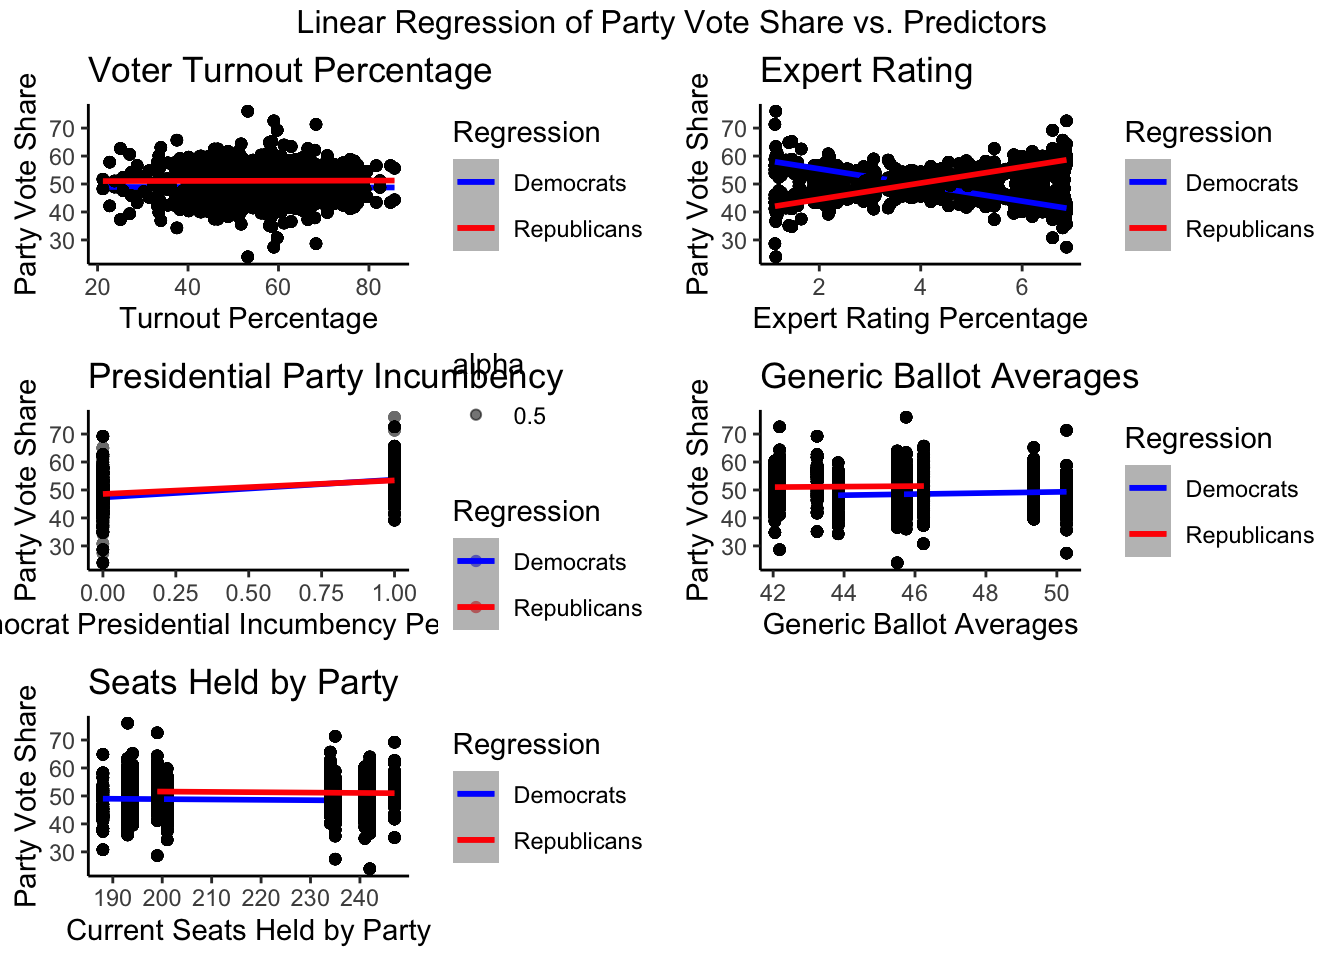
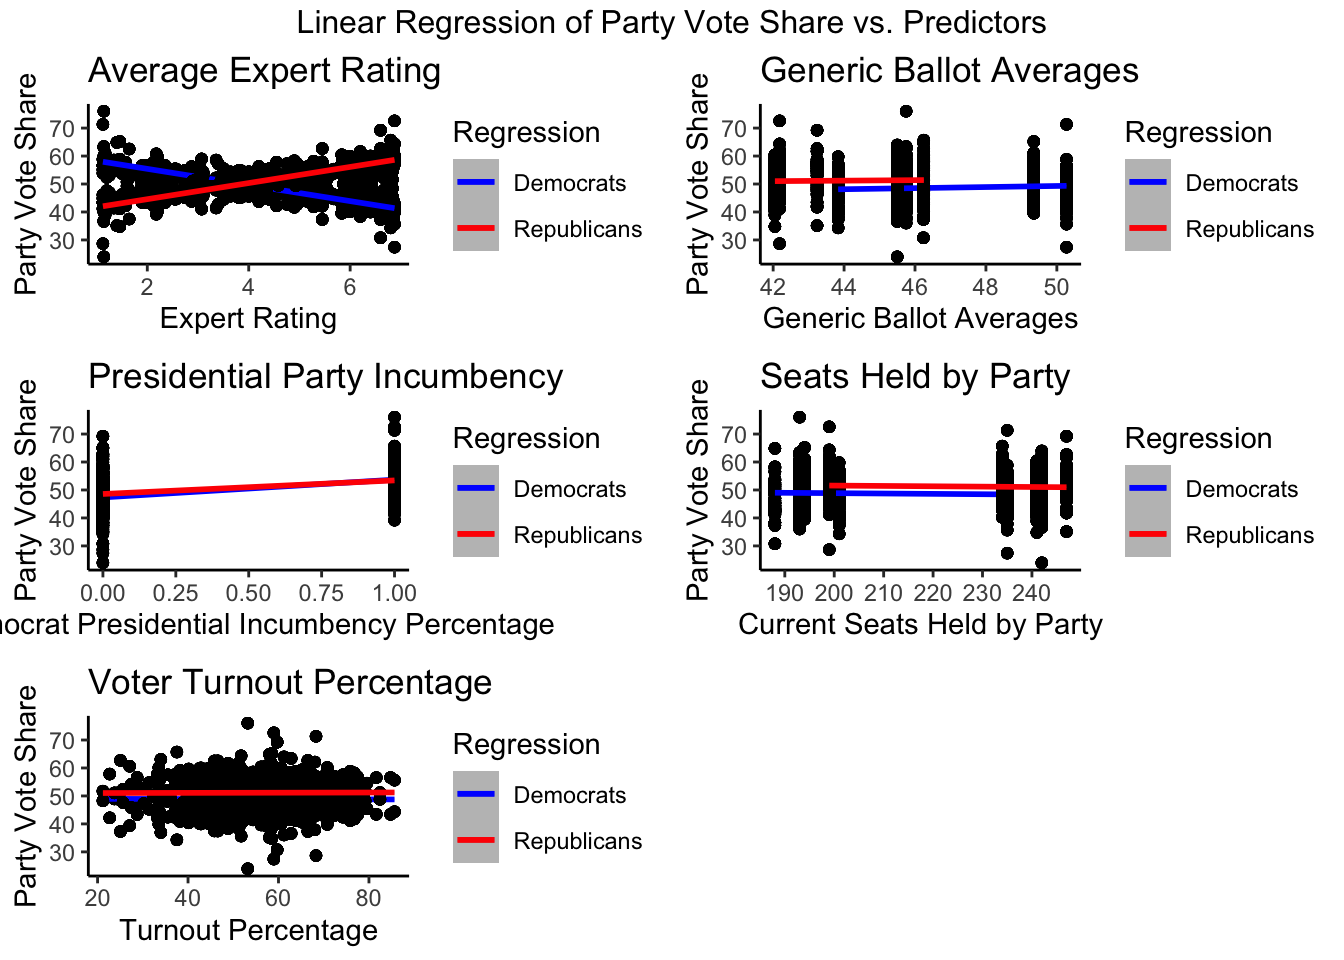
beautify

diff --git a/public/post/2022-11-07-blog-8-final-prediction/index.html b/public/post/2022-11-07-blog-8-final-prediction/index.html
@@ -84,8 +84,8 @@
 <p>All in all, holistically looking at historical literature and contemporary writings that posit the narrative of this midterm election have significantly contributed to my choice of predictors for this final model. Since I explained some of the theory behind their selection, I figured it would similarly be helpful to see the correlation of each variable on its own to party vote share. As such, I plotted each predictor against two party vote share in the graph below.</p>
 <p><strong>Examining Predictor Relationships Individually</strong>
 <img src="http://example.org/post/2022-11-07-blog-8-final-prediction/index_files/figure-html/unnamed-chunk-4-1.png" width="672" /></p>
-<p>As can be seen above</p>
-<p>#Model Results</p>
+<p>In the graph above, each predictors in my model can be seen and regressed against two party vote percentage for each party on its own. A few interesting trends and cautions can be gleaned from the above plot. Average expert rating seems to have a very clear and strong correlation likely due to the ordinal nature of the variable. As expert rating approaches 7, the republican vote share increases and as it approaches 1 democratic vote share increases. Similarly, both Republicans and Democrats see a decrease in party vote share when they hold more seats to defend in the house. Unfortunately, voter turnout does not seem to have a ver strong correlation with party vote share on its own. Finally, since presidential party incumbency status is a binary variable, the linear regression graph does not appear to display the influence very well although there does appear to be presidential party incumbency advantage (perhaps this has to do with both midterm and election years being included). All in all, these regression plots do reduce some of my confidence in the variables I’ve chosen individually but I do believe in tandem they can be very descriptive of the election.</p>
+<p><strong>Model Results</strong></p>
 <pre><code>## 
 ## ===========================================================
 ##                                     Dependent variable:    
@@ -115,24 +115,22 @@
 <li><p><strong>Democratic Seats to Defend</strong>: In my model, the democratic seats to defend variable (dem seats) has a coefficient of <strong>-0.064</strong>. This means that for every additional seat the democrats currently hold and must defend in the house, their Democrat Vote Share percentage will decrease by approximately 0.064.</p></li>
 <li><p><strong>Turnout</strong>: In my model, the turnout variable has a coefficient of <strong>-0.044</strong>. This means that for every increase in one percent of turnout the democratic vote percentage decreases by -0.044 percent. While this coefficient does seem dubious given the small positive correlation between turnout and democratic vote share, in conjunction with the rest of my model perhaps turnout is being used to adjust vote percentage along with other variables.</p></li>
 </ol>
-<div id="model-prediction" class="section level1">
-<h1>MODEL PREDICTION</h1>
+<p><strong>MODEL PREDICTION</strong></p>
 <p>Ultimately, the goal of creating the model is to then predict the outcome of tomorrow’s 2022 midterm election in the house. As discussed earlier, I aim to predict two party vote share in the house. After wrangling the data for 2022 as of 11/07, <strong>my model predicts that democrats will win approximately 46.84% of the two party vote share while Republicans will win 53.16% of the two party vote share for the house</strong>. At a 95% confidence interval, my model’s lower bound for democrat vote share percentage is approximately 41.2% while the upper bound is 52.49%. While this prediction may seem wide, it does seem on trend with the conversation going on in the election world even as of today. According to today’s New York Times article, the election seems incredibly close and could swing either way despite a significantly easier path to House dominance by the Republican party. As such, I think this model’s conclusion is fair and a likely outcome. However, to more formally analyze the validity of this model I used both in sample and out of sample metrics of evaluation.</p>
 <p>First off, looking at my model, it has an adjusted r-squared value of 0.761. While this is not a perfect r-squared, I do have confidence in the model’s ability to predict off the data fairly well. In examining my models predictive capabilities, I graphed a plot of the models predictions on the training data against the actual values of Democratic vote share. As can be seen, the model looks very accurate for midterm years like 2014 and 2018, as well as 2020. The years where this model strayed from the data was in 2012 and 2016. I’m not surprised by the degree to which 2016 is off since my model is based significantly on polls and expert predictions, which proved incredibly fallible in the 2016 election. As such, I continue to have confidence in my models predictions and am encouraged by the models accuracy during midterm years in the data set.</p>
 <p><img src="http://example.org/post/2022-11-07-blog-8-final-prediction/index_files/figure-html/unnamed-chunk-7-1.png" width="672" /></p>
 <p>Additionally, in evaluating the in-sample errors in the model I checked to make sure there wasn’t any significant skew. Looking at a histogram of the residuals below, I can see that the errors are approximately normally distributed. Since normality of residuals is an assumption of a linear model, this proves the assumption valid for my national level model and gives me more confidence in my linear model predictions.</p>
 <p><img src="http://example.org/post/2022-11-07-blog-8-final-prediction/index_files/figure-html/unnamed-chunk-8-1.png" width="672" /></p>
 <p>In addition to conducting in-sample evaluation, I also conducted out of sample evaluation in order to evaluate my model and its sensitivity to given data points. Looking at cross validation error, my model had approximately 1.58124, which while not optimal is much lower than many of my other previous models.</p>
-<p>#LIMITATIONS</p>
+<p><strong>LIMITATIONS</strong></p>
 <p>Overall, my largest limitation was definitely sample size. Statistics has shown time and time again that with small sample size comes increased bias and weaker models. House election data is very hard to find and even more so on a district level. My model got limited by the average expert predictions variable which didn’t have data points before 2010. As such, my model didn’t have enough elections to train on. This is one of the reasons I chose to use a national level model that aggregates district data into one prediction model rather than a district level model that contains an individual predictive model for each district and then aggregates each prediction, as each district only had 1-2 data points. Additionally, since my data predicts overall two party vote share, who actually controls the House and by how many seats could be different from dominance in my prediction. Without clear means for accounting for redistricting in my national level model, I felt efforts to tackle seat share predictions may not be sufficient or valuable. Overall, I’m proud of what I have put together but am incredibly cognizant that my models predictive power could be higher.</p>
-<p>#CONCLUSION</p>
+<p><strong>CONCLUSION</strong></p>
 <p>All in all, I’m eagerly awaiting election results and do believe my model has accurately predicted Republican dominance of the two party vote share. In reflecting on my model, I chose to present my national level prediction in its simplest form rather than one of my more technically advanced or flashy models made such as a pooled district model. Following the advice of Gary C. Jacobson, I chose to go for a simpler more robust model rather than a technical but data sparse model. I hope I made the right choice but looking at my final predictions of 46.84% for the Democratic Two Party Vote Share versus the 53.16% for Republicans, I feel fairly confident in the results. Ultimately, looking at the themes of this election, it feels as thought decisions are going to be made by reviewing sentiments towards the Democratic Party in the past two years instead of on a candidate by candidate or race by race basis. I look forward to evaluating this theory post election day and dissecting the psychological components and motivators behind the electoral outcome soon.</p>
-<p>#CITATIONS:</p>
+<p><strong>CITATIONS:</strong></p>
 <p>Geoffreyvs. (2022, January 3). Why the president’s party almost always has a bad midterm. FiveThirtyEight. Retrieved November 7, 2022, from <a href="https://fivethirtyeight.com/features/why-the-presidents-party-almost-always-has-a-bad-midterm/" class="uri">https://fivethirtyeight.com/features/why-the-presidents-party-almost-always-has-a-bad-midterm/</a></p>
 <p>Jacobson, Gary C. “ The 2022 U.S. Midterm Election: A Conventional Referendum or Something Different ?” Dropbox, University of California, San Diego, <a href="https://www.dropbox.com/s/95s7hip8bzg5x8n/Jacobson%202022%20Essay.pdf?dl=0" class="uri">https://www.dropbox.com/s/95s7hip8bzg5x8n/Jacobson%202022%20Essay.pdf?dl=0</a>.</p>
 <p>Schaeffer, K., &amp; Green, T. V. (2022, November 3). Key facts about U.S. voter priorities ahead of the 2022 midterm elections. Pew Research Center. Retrieved November 7, 2022, from <a href="https://www.pewresearch.org/fact-tank/2022/11/03/key-facts-about-u-s-voter-priorities-ahead-of-the-2022-midterm-elections/" class="uri">https://www.pewresearch.org/fact-tank/2022/11/03/key-facts-about-u-s-voter-priorities-ahead-of-the-2022-midterm-elections/</a></p>
 <p>“The 2022 Midterm Elections: What the Historical Data Suggest.: The American Presidency Project.” The 2022 Midterm Elections: What the Historical Data Suggest. | The American Presidency Project, 30 Aug. 2022, <a href="https://www.presidency.ucsb.edu/analyses/the-2022-midterm-elections-what-the-historical-data-suggest" class="uri">https://www.presidency.ucsb.edu/analyses/the-2022-midterm-elections-what-the-historical-data-suggest</a>.</p>
-</div>
 
 
 		
@@ -149,7 +147,7 @@
         		<footer>
 			
 			<span>
-			&copy; <time datetime="2022-11-07 16:06:04.475114 -0500 EST m=&#43;0.330451184">2022</time> . Made with <a href='https://gohugo.io'>Hugo</a> using the <a href='https://github.com/EmielH/tale-hugo/'>Tale</a> theme.
+			&copy; <time datetime="2022-11-07 16:24:32.751647 -0500 EST m=&#43;0.253437629">2022</time> . Made with <a href='https://gohugo.io'>Hugo</a> using the <a href='https://github.com/EmielH/tale-hugo/'>Tale</a> theme.
 			</span>
 		</footer>
 

diff --git a/content/post/2022-11-07-blog-8-final-prediction/index.html b/content/post/2022-11-07-blog-8-final-prediction/index.html
@@ -29,8 +29,8 @@ tags: []
 <p>All in all, holistically looking at historical literature and contemporary writings that posit the narrative of this midterm election have significantly contributed to my choice of predictors for this final model. Since I explained some of the theory behind their selection, I figured it would similarly be helpful to see the correlation of each variable on its own to party vote share. As such, I plotted each predictor against two party vote share in the graph below.</p>
 <p><strong>Examining Predictor Relationships Individually</strong>
 <img src="{{< blogdown/postref >}}index_files/figure-html/unnamed-chunk-4-1.png" width="672" /></p>
-<p>As can be seen above</p>
-<p>#Model Results</p>
+<p>In the graph above, each predictors in my model can be seen and regressed against two party vote percentage for each party on its own. A few interesting trends and cautions can be gleaned from the above plot. Average expert rating seems to have a very clear and strong correlation likely due to the ordinal nature of the variable. As expert rating approaches 7, the republican vote share increases and as it approaches 1 democratic vote share increases. Similarly, both Republicans and Democrats see a decrease in party vote share when they hold more seats to defend in the house. Unfortunately, voter turnout does not seem to have a ver strong correlation with party vote share on its own. Finally, since presidential party incumbency status is a binary variable, the linear regression graph does not appear to display the influence very well although there does appear to be presidential party incumbency advantage (perhaps this has to do with both midterm and election years being included). All in all, these regression plots do reduce some of my confidence in the variables I’ve chosen individually but I do believe in tandem they can be very descriptive of the election.</p>
+<p><strong>Model Results</strong></p>
 <pre><code>## 
 ## ===========================================================
 ##                                     Dependent variable:    
@@ -60,21 +60,19 @@ tags: []
 <li><p><strong>Democratic Seats to Defend</strong>: In my model, the democratic seats to defend variable (dem seats) has a coefficient of <strong>-0.064</strong>. This means that for every additional seat the democrats currently hold and must defend in the house, their Democrat Vote Share percentage will decrease by approximately 0.064.</p></li>
 <li><p><strong>Turnout</strong>: In my model, the turnout variable has a coefficient of <strong>-0.044</strong>. This means that for every increase in one percent of turnout the democratic vote percentage decreases by -0.044 percent. While this coefficient does seem dubious given the small positive correlation between turnout and democratic vote share, in conjunction with the rest of my model perhaps turnout is being used to adjust vote percentage along with other variables.</p></li>
 </ol>
-<div id="model-prediction" class="section level1">
-<h1>MODEL PREDICTION</h1>
+<p><strong>MODEL PREDICTION</strong></p>
 <p>Ultimately, the goal of creating the model is to then predict the outcome of tomorrow’s 2022 midterm election in the house. As discussed earlier, I aim to predict two party vote share in the house. After wrangling the data for 2022 as of 11/07, <strong>my model predicts that democrats will win approximately 46.84% of the two party vote share while Republicans will win 53.16% of the two party vote share for the house</strong>. At a 95% confidence interval, my model’s lower bound for democrat vote share percentage is approximately 41.2% while the upper bound is 52.49%. While this prediction may seem wide, it does seem on trend with the conversation going on in the election world even as of today. According to today’s New York Times article, the election seems incredibly close and could swing either way despite a significantly easier path to House dominance by the Republican party. As such, I think this model’s conclusion is fair and a likely outcome. However, to more formally analyze the validity of this model I used both in sample and out of sample metrics of evaluation.</p>
 <p>First off, looking at my model, it has an adjusted r-squared value of 0.761. While this is not a perfect r-squared, I do have confidence in the model’s ability to predict off the data fairly well. In examining my models predictive capabilities, I graphed a plot of the models predictions on the training data against the actual values of Democratic vote share. As can be seen, the model looks very accurate for midterm years like 2014 and 2018, as well as 2020. The years where this model strayed from the data was in 2012 and 2016. I’m not surprised by the degree to which 2016 is off since my model is based significantly on polls and expert predictions, which proved incredibly fallible in the 2016 election. As such, I continue to have confidence in my models predictions and am encouraged by the models accuracy during midterm years in the data set.</p>
 <p><img src="{{< blogdown/postref >}}index_files/figure-html/unnamed-chunk-7-1.png" width="672" /></p>
 <p>Additionally, in evaluating the in-sample errors in the model I checked to make sure there wasn’t any significant skew. Looking at a histogram of the residuals below, I can see that the errors are approximately normally distributed. Since normality of residuals is an assumption of a linear model, this proves the assumption valid for my national level model and gives me more confidence in my linear model predictions.</p>
 <p><img src="{{< blogdown/postref >}}index_files/figure-html/unnamed-chunk-8-1.png" width="672" /></p>
 <p>In addition to conducting in-sample evaluation, I also conducted out of sample evaluation in order to evaluate my model and its sensitivity to given data points. Looking at cross validation error, my model had approximately 1.58124, which while not optimal is much lower than many of my other previous models.</p>
-<p>#LIMITATIONS</p>
+<p><strong>LIMITATIONS</strong></p>
 <p>Overall, my largest limitation was definitely sample size. Statistics has shown time and time again that with small sample size comes increased bias and weaker models. House election data is very hard to find and even more so on a district level. My model got limited by the average expert predictions variable which didn’t have data points before 2010. As such, my model didn’t have enough elections to train on. This is one of the reasons I chose to use a national level model that aggregates district data into one prediction model rather than a district level model that contains an individual predictive model for each district and then aggregates each prediction, as each district only had 1-2 data points. Additionally, since my data predicts overall two party vote share, who actually controls the House and by how many seats could be different from dominance in my prediction. Without clear means for accounting for redistricting in my national level model, I felt efforts to tackle seat share predictions may not be sufficient or valuable. Overall, I’m proud of what I have put together but am incredibly cognizant that my models predictive power could be higher.</p>
-<p>#CONCLUSION</p>
+<p><strong>CONCLUSION</strong></p>
 <p>All in all, I’m eagerly awaiting election results and do believe my model has accurately predicted Republican dominance of the two party vote share. In reflecting on my model, I chose to present my national level prediction in its simplest form rather than one of my more technically advanced or flashy models made such as a pooled district model. Following the advice of Gary C. Jacobson, I chose to go for a simpler more robust model rather than a technical but data sparse model. I hope I made the right choice but looking at my final predictions of 46.84% for the Democratic Two Party Vote Share versus the 53.16% for Republicans, I feel fairly confident in the results. Ultimately, looking at the themes of this election, it feels as thought decisions are going to be made by reviewing sentiments towards the Democratic Party in the past two years instead of on a candidate by candidate or race by race basis. I look forward to evaluating this theory post election day and dissecting the psychological components and motivators behind the electoral outcome soon.</p>
-<p>#CITATIONS:</p>
+<p><strong>CITATIONS:</strong></p>
 <p>Geoffreyvs. (2022, January 3). Why the president’s party almost always has a bad midterm. FiveThirtyEight. Retrieved November 7, 2022, from <a href="https://fivethirtyeight.com/features/why-the-presidents-party-almost-always-has-a-bad-midterm/" class="uri">https://fivethirtyeight.com/features/why-the-presidents-party-almost-always-has-a-bad-midterm/</a></p>
 <p>Jacobson, Gary C. “ The 2022 U.S. Midterm Election: A Conventional Referendum or Something Different ?” Dropbox, University of California, San Diego, <a href="https://www.dropbox.com/s/95s7hip8bzg5x8n/Jacobson%202022%20Essay.pdf?dl=0" class="uri">https://www.dropbox.com/s/95s7hip8bzg5x8n/Jacobson%202022%20Essay.pdf?dl=0</a>.</p>
 <p>Schaeffer, K., &amp; Green, T. V. (2022, November 3). Key facts about U.S. voter priorities ahead of the 2022 midterm elections. Pew Research Center. Retrieved November 7, 2022, from <a href="https://www.pewresearch.org/fact-tank/2022/11/03/key-facts-about-u-s-voter-priorities-ahead-of-the-2022-midterm-elections/" class="uri">https://www.pewresearch.org/fact-tank/2022/11/03/key-facts-about-u-s-voter-priorities-ahead-of-the-2022-midterm-elections/</a></p>
 <p>“The 2022 Midterm Elections: What the Historical Data Suggest.: The American Presidency Project.” The 2022 Midterm Elections: What the Historical Data Suggest. | The American Presidency Project, 30 Aug. 2022, <a href="https://www.presidency.ucsb.edu/analyses/the-2022-midterm-elections-what-the-historical-data-suggest" class="uri">https://www.presidency.ucsb.edu/analyses/the-2022-midterm-elections-what-the-historical-data-suggest</a>.</p>
-</div>

diff --git a/public/index.html b/public/index.html
@@ -187,7 +187,7 @@ Nate Silver crafts Fivethirtyeight’s election prediction in 2022 by creating 3
         		<footer>
 			
 			<span>
-			&copy; <time datetime="2022-11-07 16:06:04.489464 -0500 EST m=&#43;0.344800473">2022</time> . Made with <a href='https://gohugo.io'>Hugo</a> using the <a href='https://github.com/EmielH/tale-hugo/'>Tale</a> theme.
+			&copy; <time datetime="2022-11-07 16:24:32.757624 -0500 EST m=&#43;0.259414715">2022</time> . Made with <a href='https://gohugo.io'>Hugo</a> using the <a href='https://github.com/EmielH/tale-hugo/'>Tale</a> theme.
 			</span>
 		</footer>
 

diff --git a/public/post/index.html b/public/post/index.html
@@ -182,7 +182,7 @@ Nate Silver crafts Fivethirtyeight’s election prediction in 2022 by creating 3
         		<footer>
 			
 			<span>
-			&copy; <time datetime="2022-11-07 16:06:04.489531 -0500 EST m=&#43;0.344868075">2022</time> . Made with <a href='https://gohugo.io'>Hugo</a> using the <a href='https://github.com/EmielH/tale-hugo/'>Tale</a> theme.
+			&copy; <time datetime="2022-11-07 16:24:32.75768 -0500 EST m=&#43;0.259470712">2022</time> . Made with <a href='https://gohugo.io'>Hugo</a> using the <a href='https://github.com/EmielH/tale-hugo/'>Tale</a> theme.
 			</span>
 		</footer>
 

diff --git a/public/categories/index.html b/public/categories/index.html
@@ -57,7 +57,7 @@
         		<footer>
 			
 			<span>
-			&copy; <time datetime="2022-11-07 16:06:04.481889 -0500 EST m=&#43;0.337225424">2022</time> . Made with <a href='https://gohugo.io'>Hugo</a> using the <a href='https://github.com/EmielH/tale-hugo/'>Tale</a> theme.
+			&copy; <time datetime="2022-11-07 16:24:32.751584 -0500 EST m=&#43;0.253374596">2022</time> . Made with <a href='https://gohugo.io'>Hugo</a> using the <a href='https://github.com/EmielH/tale-hugo/'>Tale</a> theme.
 			</span>
 		</footer>
 

diff --git a/public/tags/index.html b/public/tags/index.html
@@ -57,7 +57,7 @@
         		<footer>
 			
 			<span>
-			&copy; <time datetime="2022-11-07 16:06:04.482855 -0500 EST m=&#43;0.338192245">2022</time> . Made with <a href='https://gohugo.io'>Hugo</a> using the <a href='https://github.com/EmielH/tale-hugo/'>Tale</a> theme.
+			&copy; <time datetime="2022-11-07 16:24:32.75404 -0500 EST m=&#43;0.255830099">2022</time> . Made with <a href='https://gohugo.io'>Hugo</a> using the <a href='https://github.com/EmielH/tale-hugo/'>Tale</a> theme.
 			</span>
 		</footer>
 
